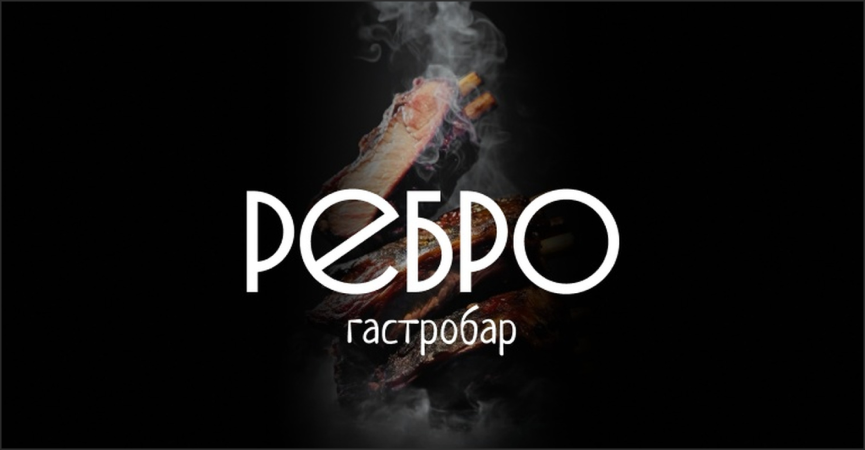
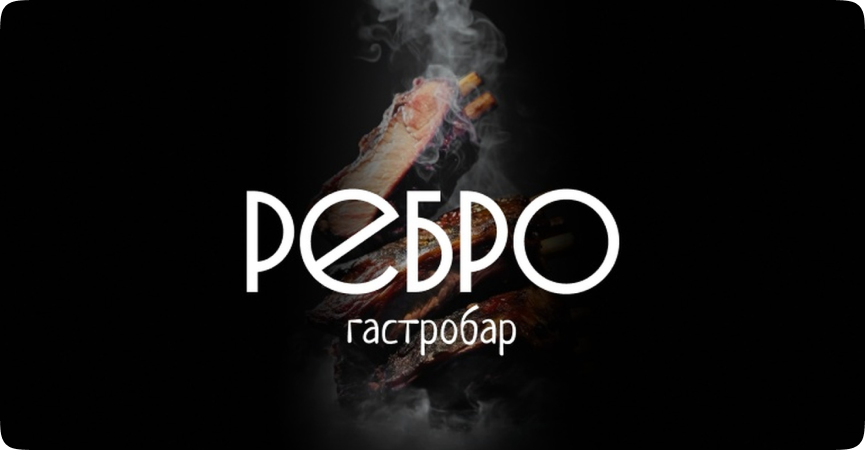
fix locatoin

diff --git a/components/landing/location.jsx b/components/landing/location.jsx
@@ -50,7 +50,7 @@ export default function Location () {
 
 				<Area>
 					<Swiper>
-						<Slide>
+						<Slide className='slide-bar'>
 							<ImageBar
 								src={SlideBar}
 								alt='bar'
@@ -275,6 +275,11 @@ const Link = styled.a`
 
 const Slide = styled(SwiperSlide)`
 	height: 450px;
+
+	&.slide-bar {
+		border: 1px solid #2c2c2c;
+		border-radius: 20px;
+	}
 
 	@media screen and (max-width: 1440px) {
 		height: 340px;
